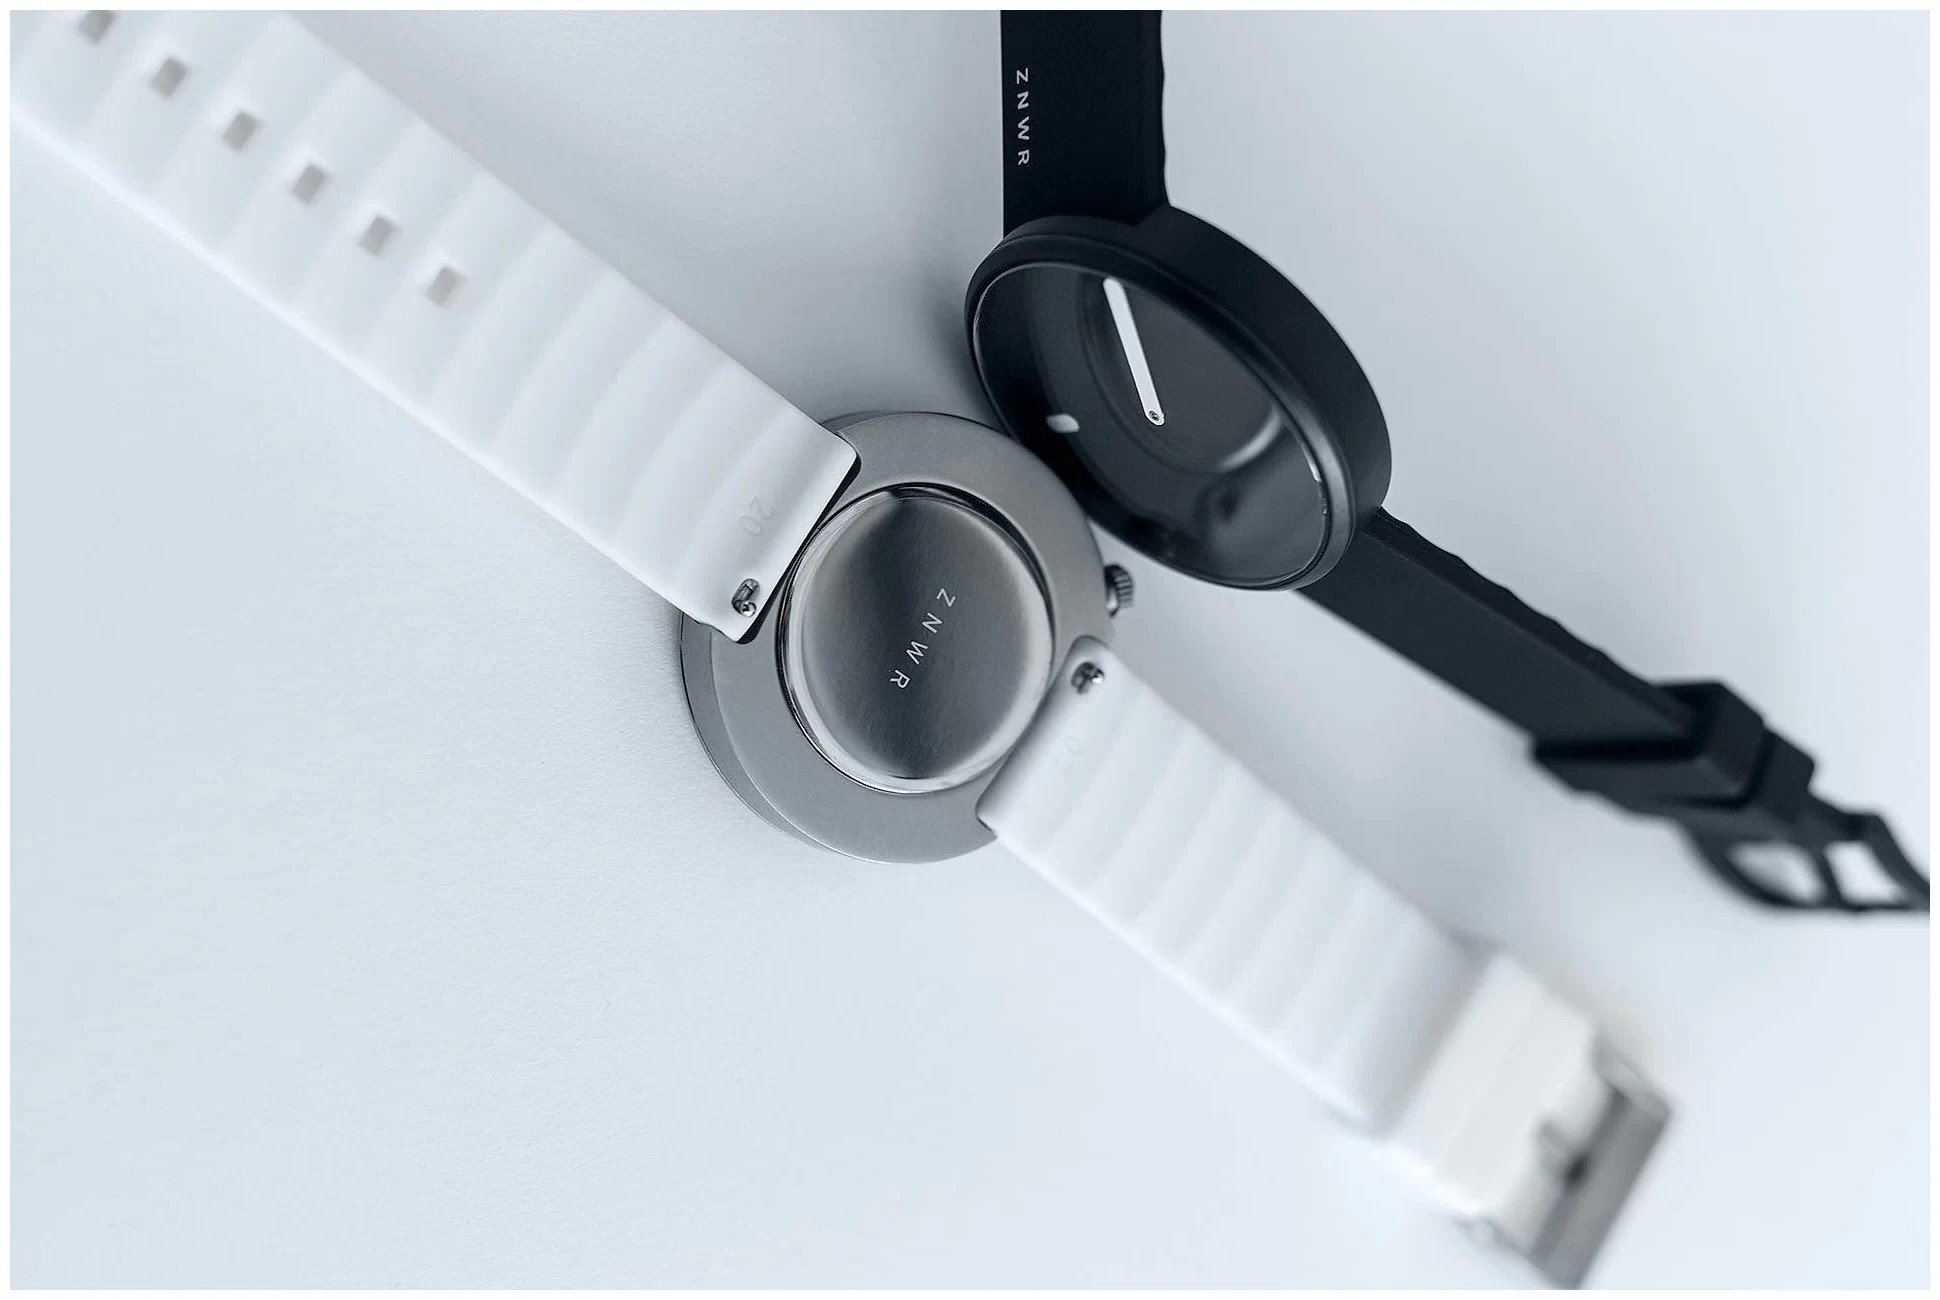
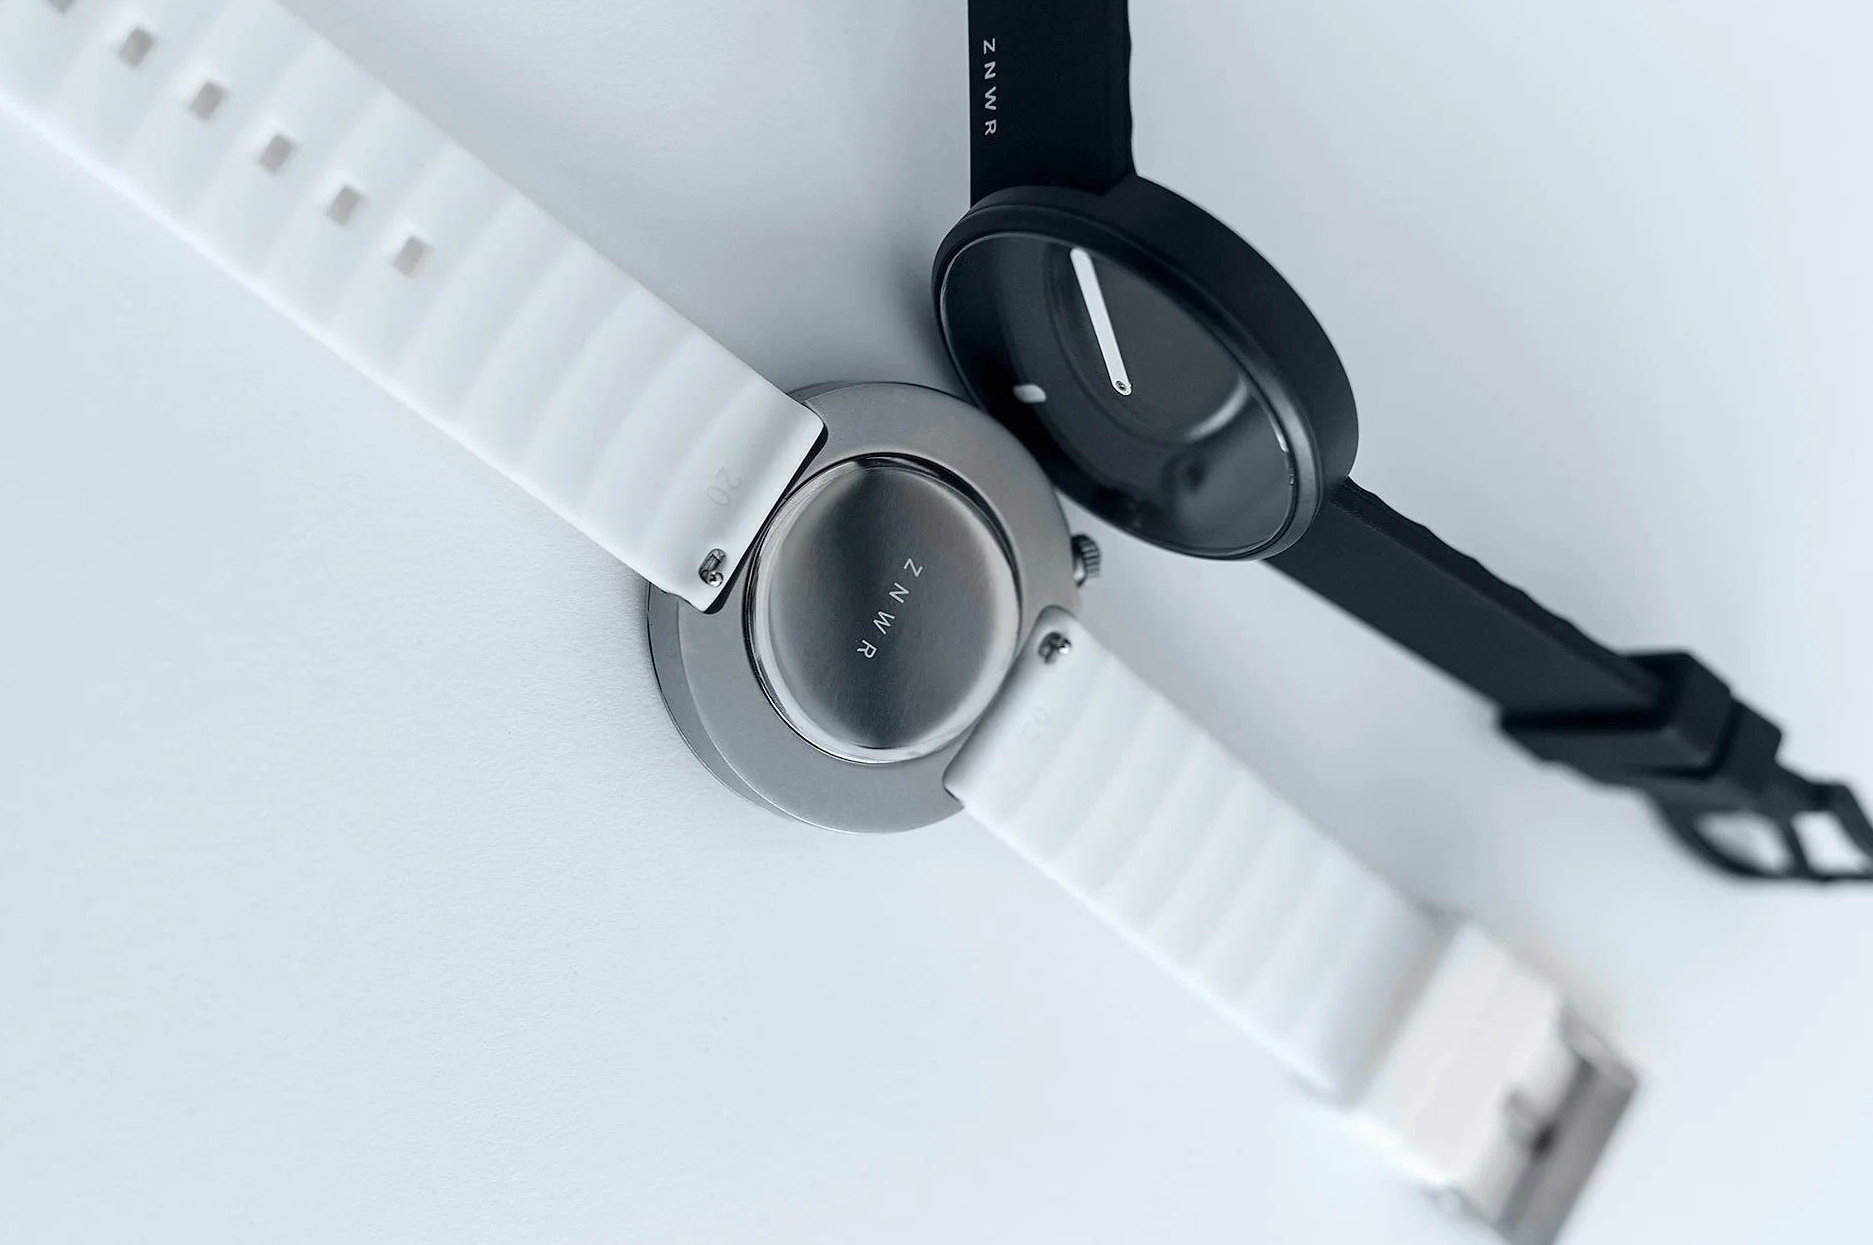
Still troubleshooting the watch image not displaying

diff --git a/Assignment3/index.html b/Assignment3/index.html
@@ -11,7 +11,7 @@
     <div class="container">
       <h1 class="ad-header">New and Improved!</h1>
       <img
-        src="/AltSchool/Assets/Images/football.jpg"
+        src="/AltSchool/Css-assignments/Assets/watch.png"
         alt="Novus watch"
         class="ad-picture"
       />

diff --git a/Assignment3/styles.css b/Assignment3/styles.css
@@ -29,7 +29,7 @@ body {
 .ad-picture {
     width: inherit;
     height: auto;
-    border-radius: 15px 15px 0 0;
+    border-radius: 10px 10px 0 0;
 }
 
 h2 {
